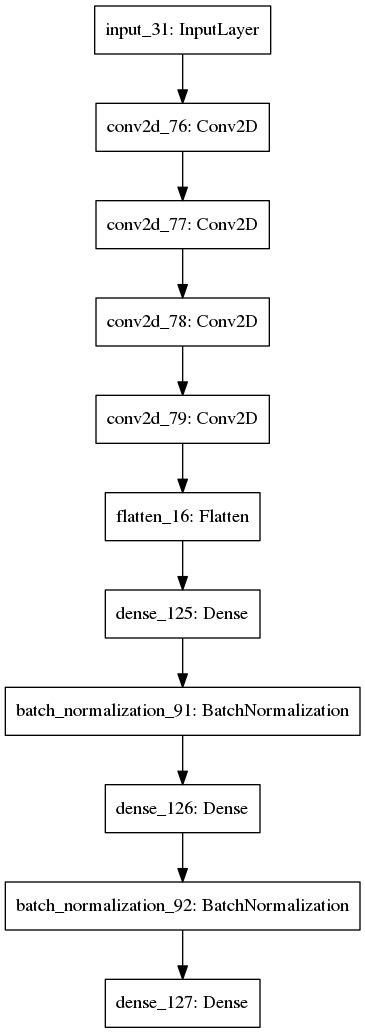
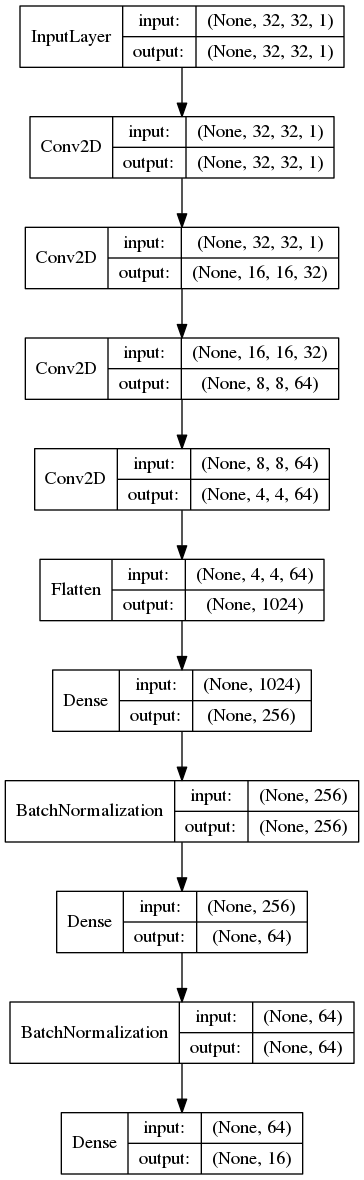
Add model structure image

Changed region(s): [[0.0, 0.0, 0.9973, 1.0], [0.0302, 0.0, 0.0604, 0.062]]

diff --git a/README.md b/README.md
@@ -1,5 +1,14 @@
 # MNIST encoder-decoder
 A encoder-decoder system that encode mnist(28x28)image to 16-dimension vector and decode it.
+
+## Model structure
+### Encoder
+![](./model_encoder.png)
+
+### Decoder
+![](./model_decoder.png)
+
+
 ## Result
 
 ### Original image
